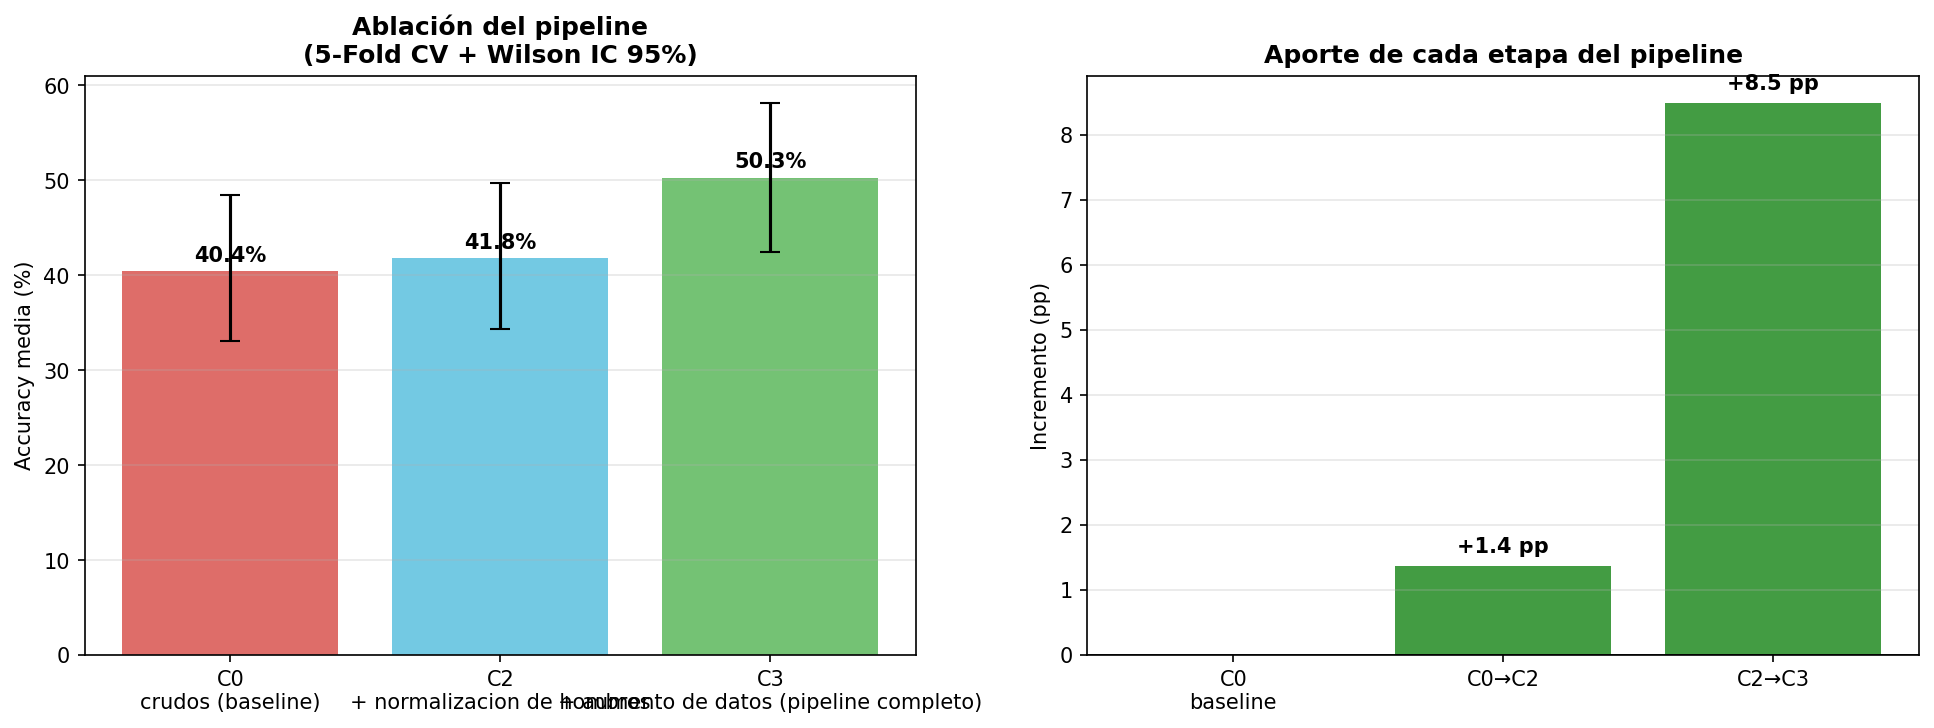
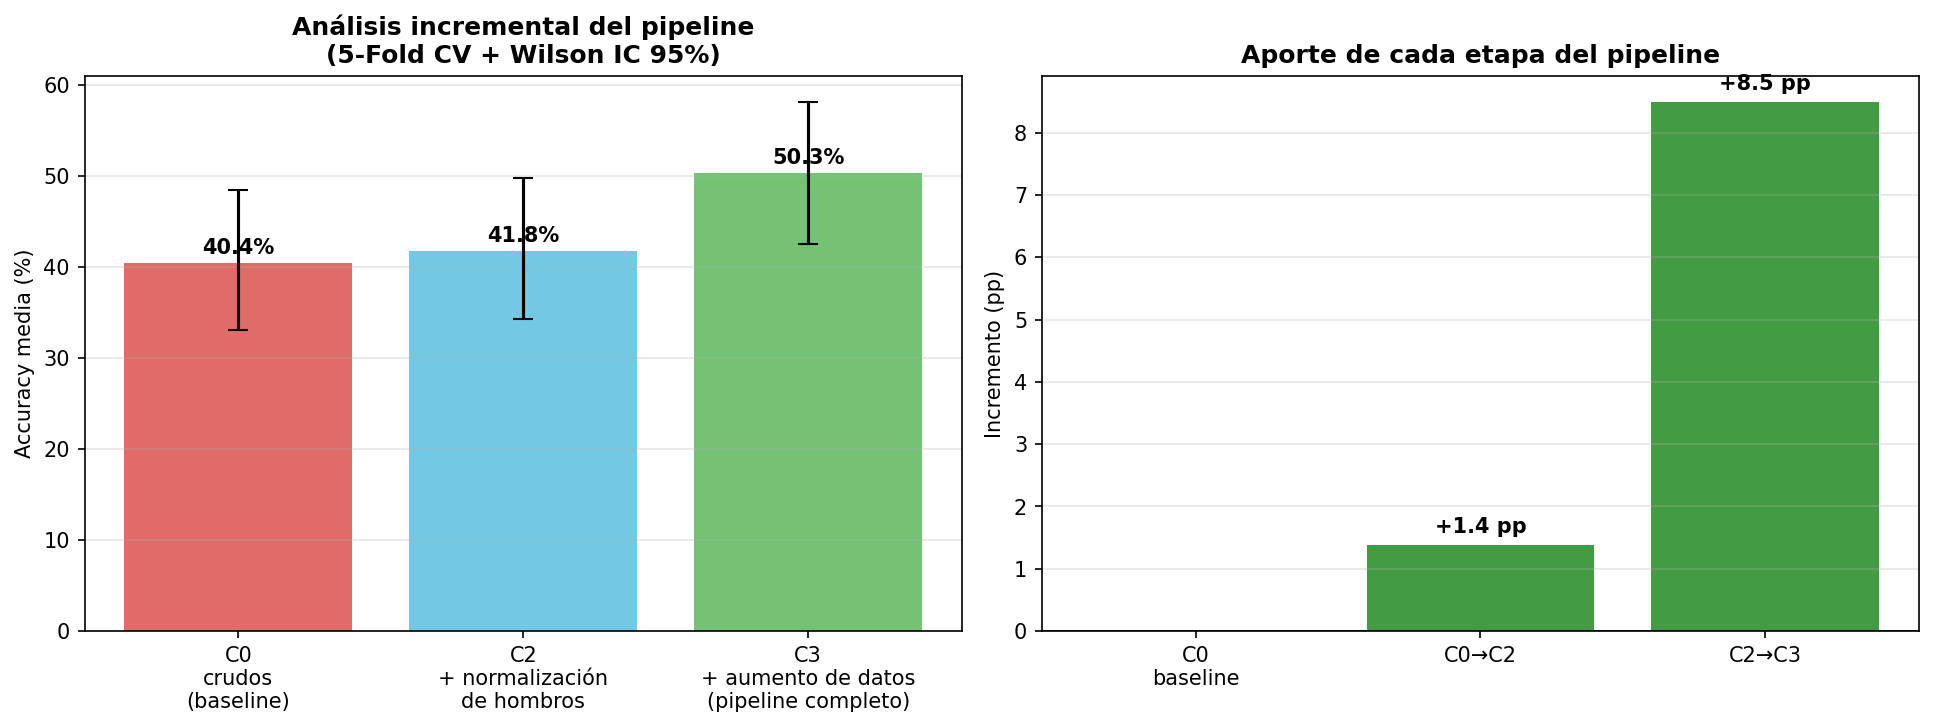
cambio generañ

diff --git a/demo/demo_webcam.py b/demo/demo_webcam.py
@@ -29,16 +29,16 @@ MODELO_PATH = os.path.join(DATA_DIR, "modelo", "resultados", "mejor_modelo_v2.ke
 # determinista (modelo/resultados/reporte_por_clase.csv). El numero es la
 # precision: cuando el modelo predice esta sena, que tan seguido acierta.
 SENAS_OBJETIVO = [
-    ("CORRECTO",    100),
     ("CRECER",      100),
-    ("ESCUCHAR",    100),
-    ("ACOMODAR",    100),
-    ("APROBAR",     100),
+    ("CUALQUIER",   100),
+    ("FAMOSO",      100),
+    ("JEFE",        100),
+    ("PASTEL",      100),
+    ("CORRECTO",     50),
+    ("ACOMODAR",     50),
+    ("APROBAR",      50),
+    ("ABAJO_2",      50),
     ("ENOJADO",      50),
-    ("ACCIDENTE",    50),
-    ("FAMOSO",       50),
-    ("MUDARSE",      33),
-    ("AVERGONZAR",   20),
 ]
 
 C_VERDE   = (80,  200,  80)
